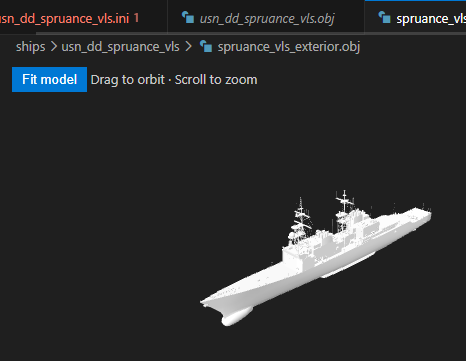
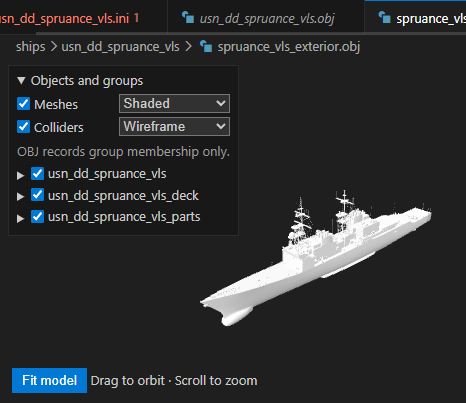
Refresh the Spruance gallery with preview hovers, sphere colliders and INI navigation

Changed region(s): [[0.0, 0.4571, 0.9313, 0.9751], [0.0, 0.1828, 0.5708, 0.5789], [0.0, 0.0, 1.0, 0.1524]]

diff --git a/sp-ini/README.md b/sp-ini/README.md
@@ -69,3 +69,19 @@ Captured in VS Code with the stock Spruance VLS destroyer.
 ## Spruance VLS in the FBX viewer
 
 ![Spruance VLS in the FBX viewer](17-fbx-preview.png)
+
+## Mesh tooltip on the assembled Spruance
+
+![Mesh tooltip on the assembled Spruance](18-entity-mesh-hover.png)
+
+## Sphere collider wireframes and INI source tooltip
+
+![Sphere collider wireframes and INI source tooltip](19-sphere-colliders.png)
+
+## Ctrl+click opens the collider definition beside the preview
+
+![Ctrl+click opens the collider definition beside the preview](20-preview-definition.png)
+
+## Repeated mesh and its source template
+
+![Repeated mesh and its source template](21-hierarchy-definition.png)
